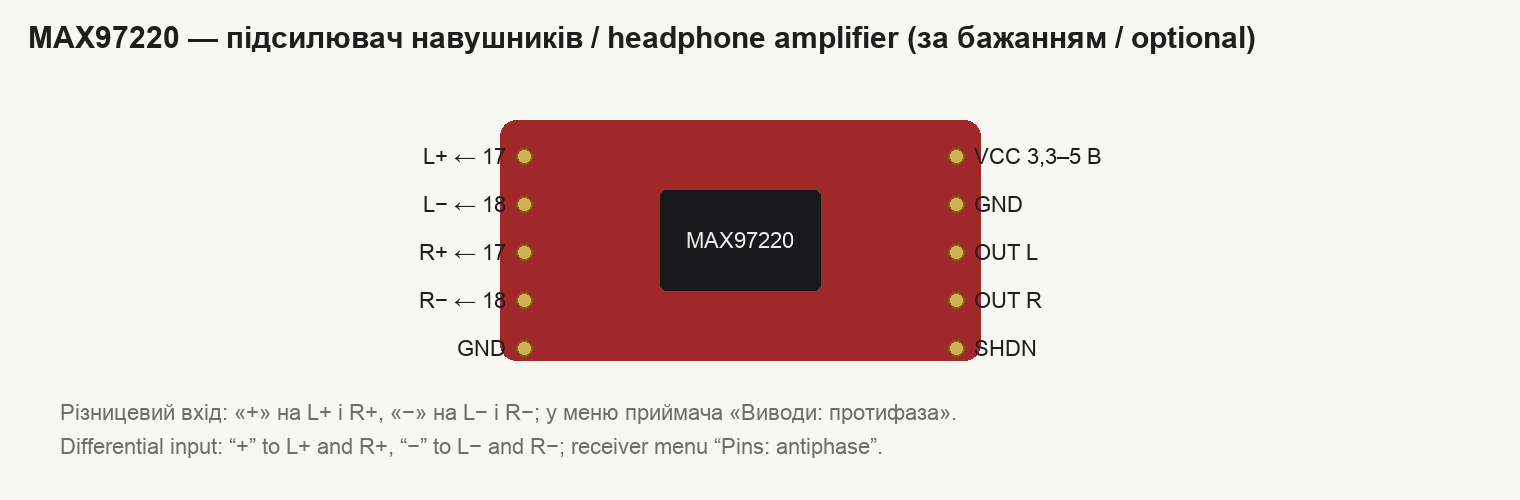
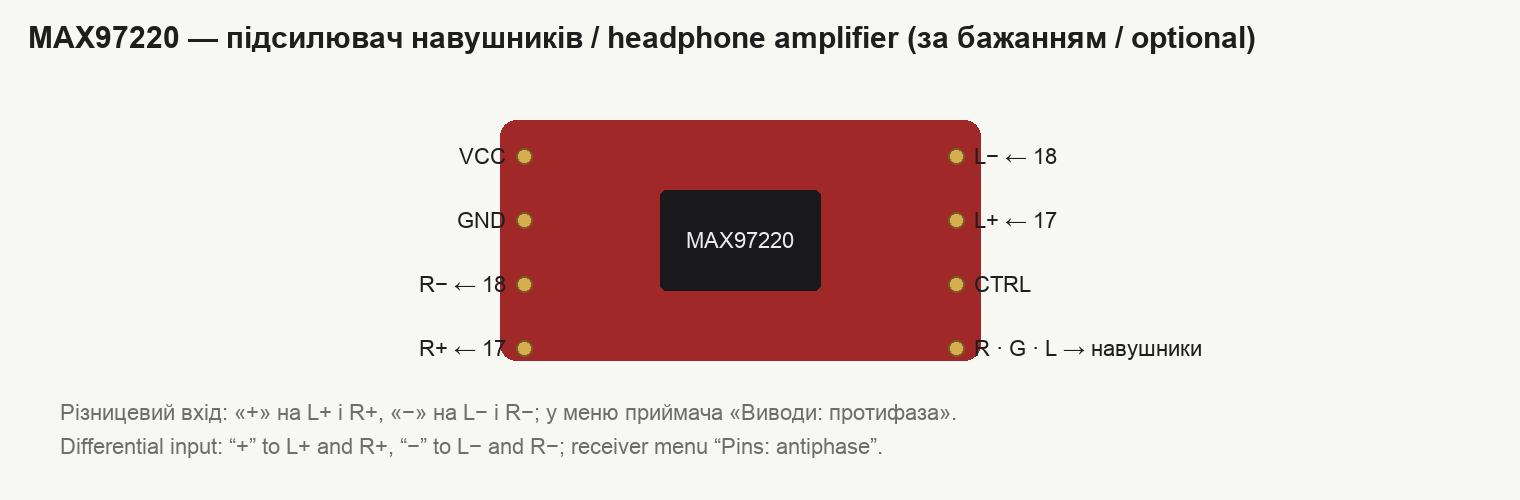
MAX97220 photo; amplifier drawing follows the real pin names

diff --git a/tools/gen_modules.py b/tools/gen_modules.py
@@ -103,7 +103,7 @@ def small(name, title, color, chip, left, right, notes, fname):
 os.makedirs(OUT, exist_ok=True)
 tx(); devkit(); m75()
 small('max', 'MAX97220 — підсилювач навушників / headphone amplifier (за бажанням / optional)', RED, 'MAX97220',
-      ['L+ ← 17', 'L− ← 18', 'R+ ← 17', 'R− ← 18', 'GND'], ['VCC 3,3–5 В', 'GND', 'OUT L', 'OUT R', 'SHDN'],
+      ['VCC', 'GND', 'R− ← 18', 'R+ ← 17'], ['L− ← 18', 'L+ ← 17', 'CTRL', 'R · G · L → навушники'],
       ['Різницевий вхід: «+» на L+ і R+, «−» на L− і R−; у меню приймача «Виводи: протифаза».',
        'Differential input: “+” to L+ and R+, “−” to L− and R−; receiver menu “Pins: antiphase”.'], 'mod-max97220.png')
 small('pcm5102', 'PCM5102 — зовнішній ЦАП приймача / external receiver DAC (за бажанням, не перевірено / optional, untested)', PURPLE, 'PCM5102',

diff --git a/docs/uk/hardware.md b/docs/uk/hardware.md
@@ -40,6 +40,7 @@
 | ![](../photos/esp32-4848s040-label.jpg) | напис на корпусі модуля — за ним його й шукати |
 | ![](../photos/esp32-s3-devkit-n16r8.jpg) | **ESP32-S3 N16R8** — плата приймача (два роз'єми USB-C, кнопки BOOT і RST, кольоровий світлодіод) |
 | ![](../photos/m75-oled-encoder.jpg) | **екран SH1106 1,3″ з енкодером EC11** і кнопками BACK / CONFIRM |
+| ![](../photos/max97220.jpg) | **MAX97220** («HYT») — підсилювач навушників (за бажанням): входи L+, L−, R+, R−, вихід R, G, L, живлення VCC, GND, керування CTRL |
 | ![](../photos/pcm1808.jpg) | **PCM1808** — зовнішній АЦП передавача (за бажанням) |
 | ![](../photos/pcm5102.jpg) | **PCM5102** — зовнішній ЦАП приймача (за бажанням) |
 

diff --git a/docs/en/hardware.md b/docs/en/hardware.md
@@ -40,6 +40,7 @@ turning off, all settings).
 | ![](../photos/esp32-4848s040-label.jpg) | the marking on the module case — search for it by this name |
 | ![](../photos/esp32-s3-devkit-n16r8.jpg) | **ESP32-S3 N16R8** — the receiver board (two USB-C ports, BOOT and RST buttons, RGB LED) |
 | ![](../photos/m75-oled-encoder.jpg) | **SH1106 1.3″ display with an EC11 encoder** and BACK / CONFIRM buttons |
+| ![](../photos/max97220.jpg) | **MAX97220** (“HYT”) — headphone amplifier (optional): inputs L+, L−, R+, R−, output R, G, L, power VCC, GND, control CTRL |
 | ![](../photos/pcm1808.jpg) | **PCM1808** — external transmitter ADC (optional) |
 | ![](../photos/pcm5102.jpg) | **PCM5102** — external receiver DAC (optional) |
 
